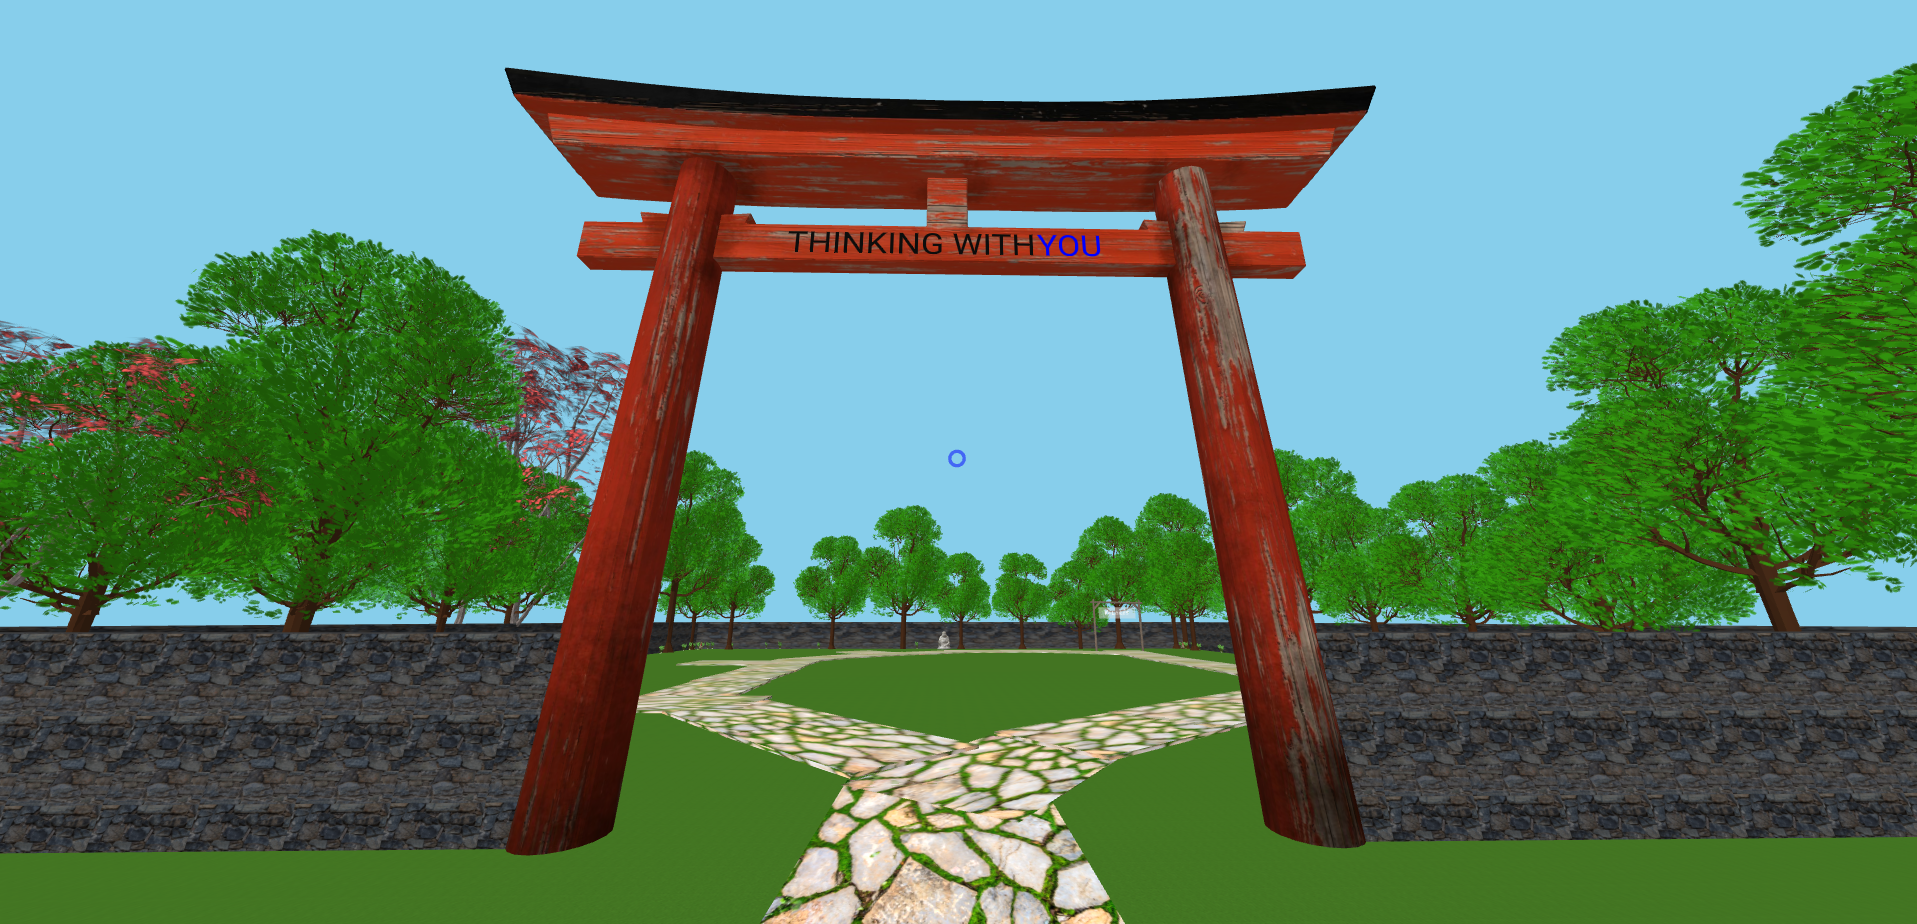
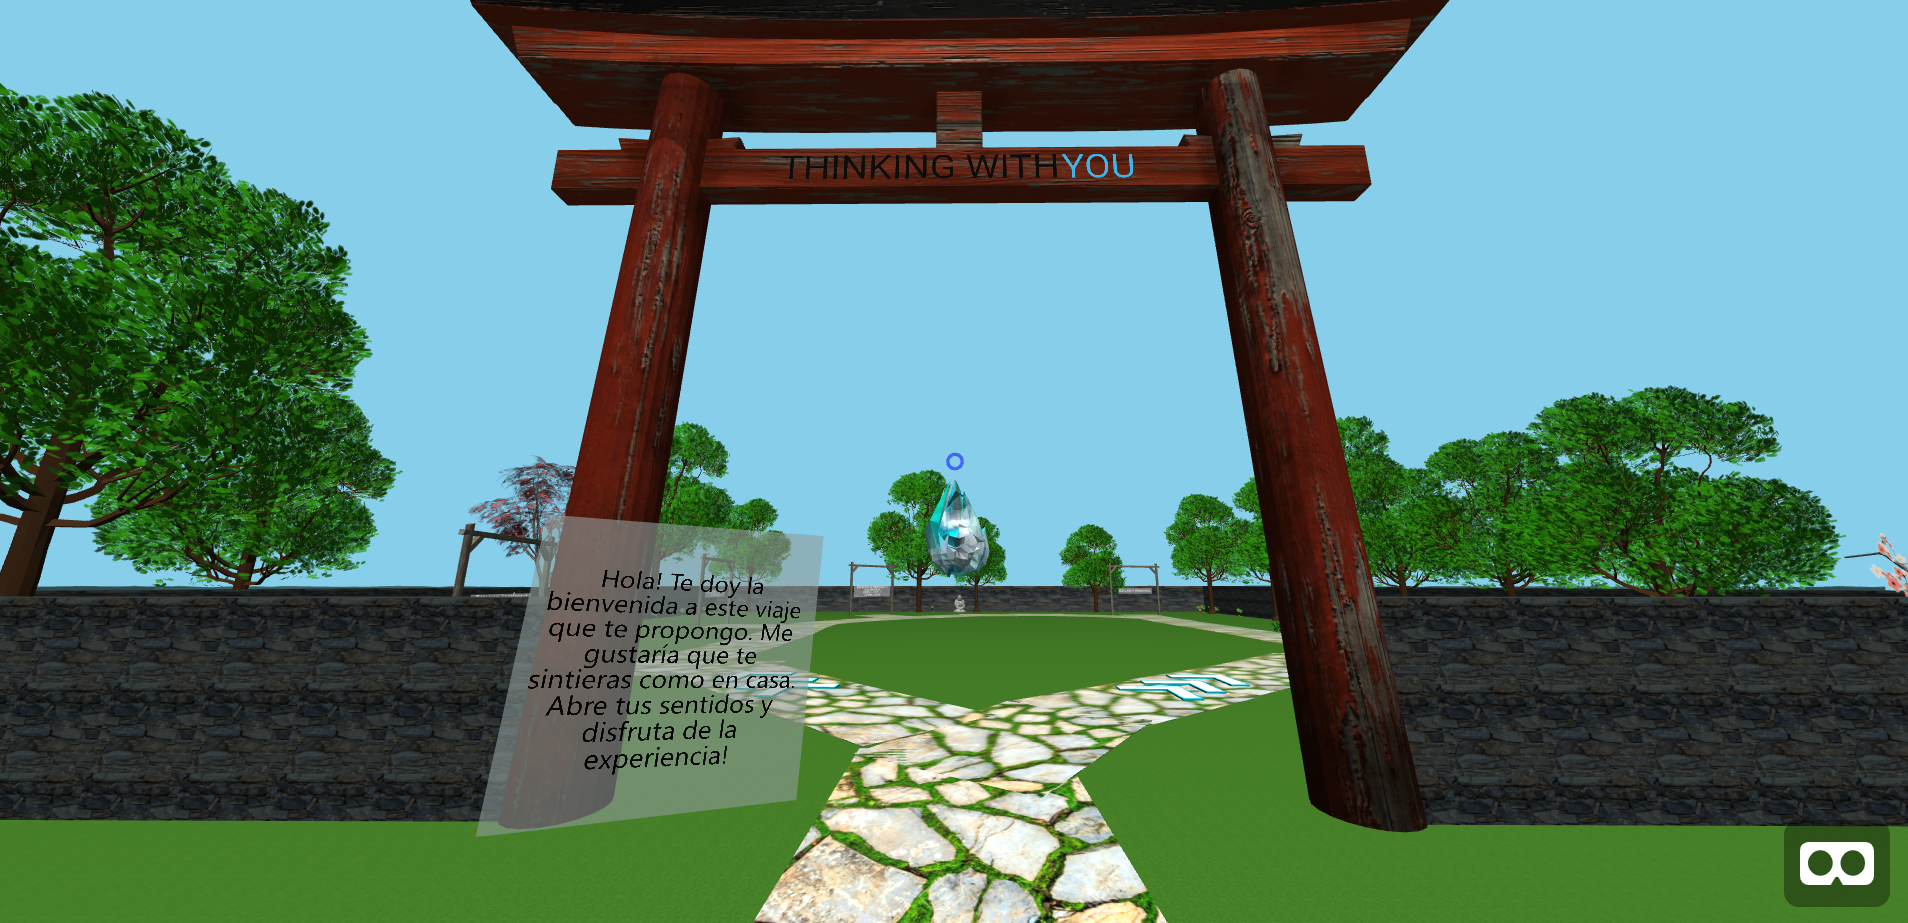
Varias cosas, imagen de página principal

diff --git a/src/Componentes/Frame.jsx b/src/Componentes/Frame.jsx
@@ -112,8 +112,8 @@ function Frame() {
         <a-animation id="animacion_2" attribute="position" dur="300800" from="70 50 399.5" to="40 50 -500.0" repeat="indefinite">
         </a-animation>
       </a-gltf-model>
-      <a-gltf-model id="arrow_move_una" animation-mixer="clip: *; playbackSpeed:0.3;" src="#arrow_move" position="3.9 0.14 9.9" rotation="-3.15 -44.1 0" scale="0.3 0.3 0.3"></a-gltf-model>
-      <a-gltf-model id="arrow_move_dos" animation-mixer="clip: *; crossFadeDuration:0.4;" src="#arrow_move" position="-3.16 0.14 9.5" rotation="-3.15 44.1 0" scale="0.3 0.3 0.3"></a-gltf-model>
+      <a-gltf-model id="arrow_move_una" animation-mixer="clip: *; " src="#arrow_move" position="3.9 0.1 9.9" rotation="-3.15 -44.1 0" scale="0.3 0.3 0.3"></a-gltf-model>
+      <a-gltf-model id="arrow_move_dos" animation-mixer="clip: *;" src="#arrow_move" position="-3.16 0.1 9.5" rotation="-3.15 44.1 0" scale="0.3 0.3 0.3"></a-gltf-model>
 
       <Entity key="1" id="muro_1" position="-15 0 0" rotation="0 0 0">
         {

diff --git a/src/App.css b/src/App.css
@@ -45,6 +45,7 @@ button{
   justify-content: center;
   font-size: 3em;
   padding: 30px;
+  margin-top: 383px;
   background-color: azure;
   border-radius: 40px;
   -webkit-box-shadow: -1px 2px 18px 0px rgba(0,0,0,0.75);
